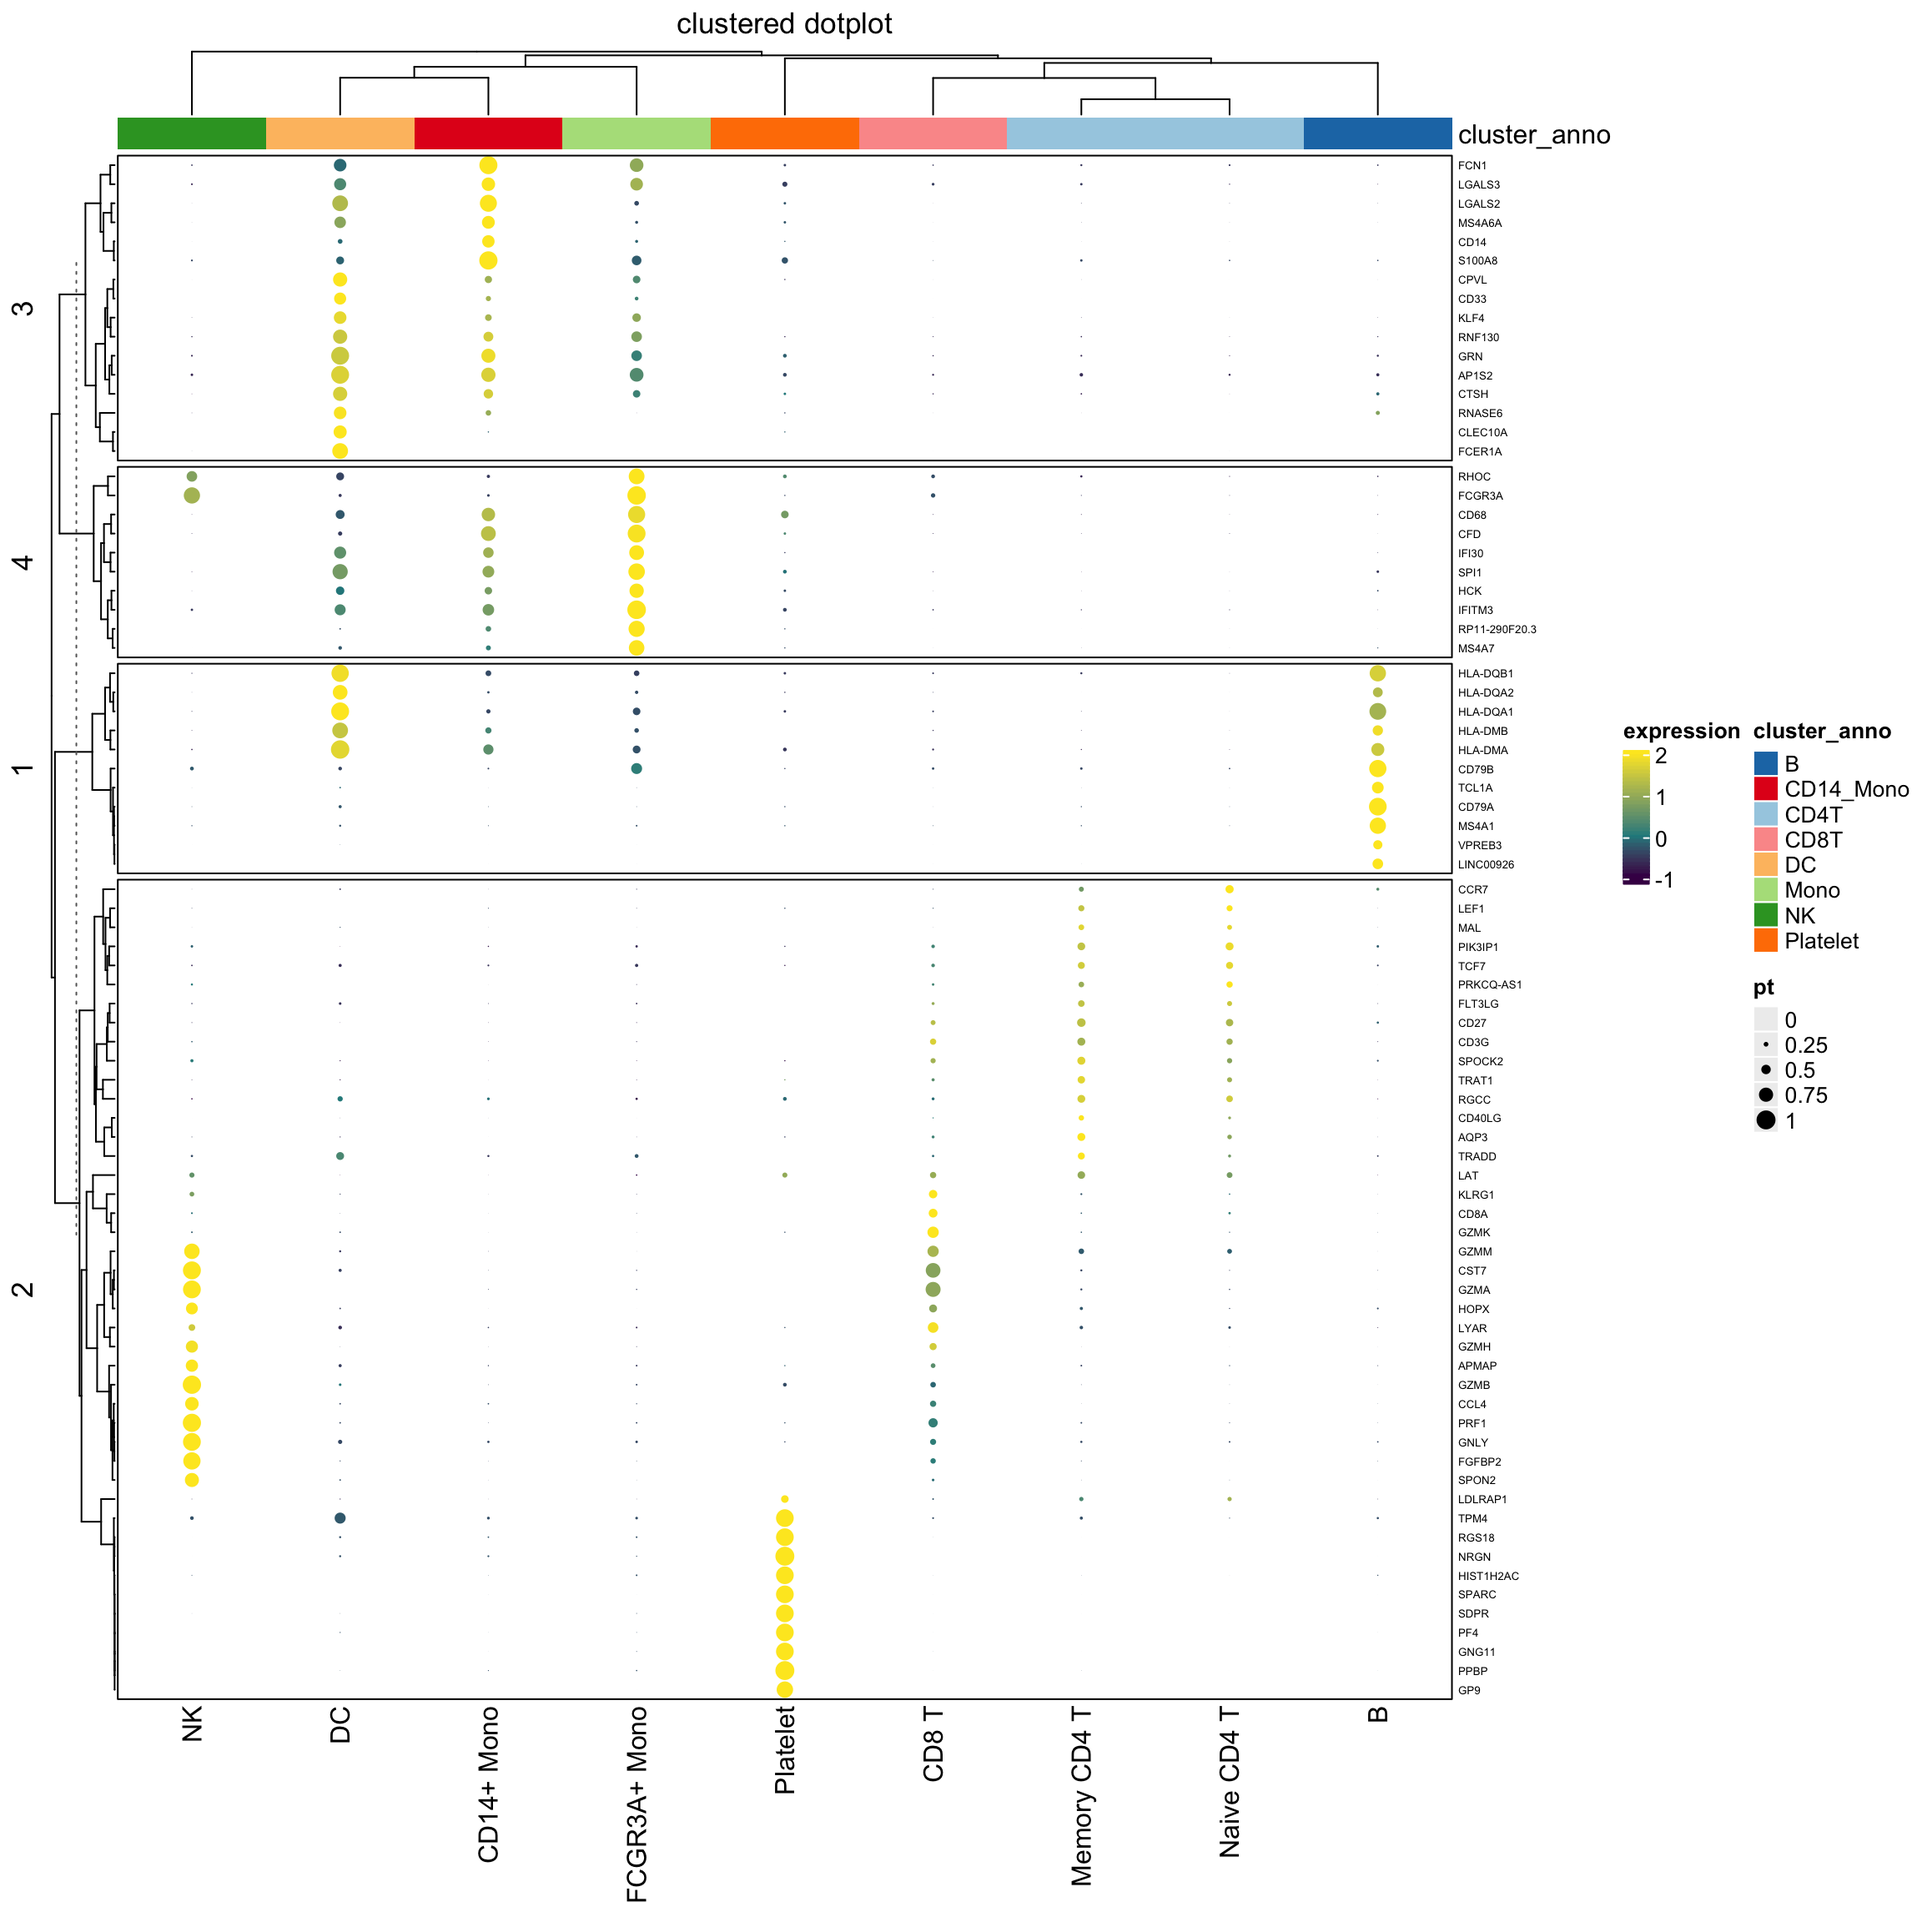
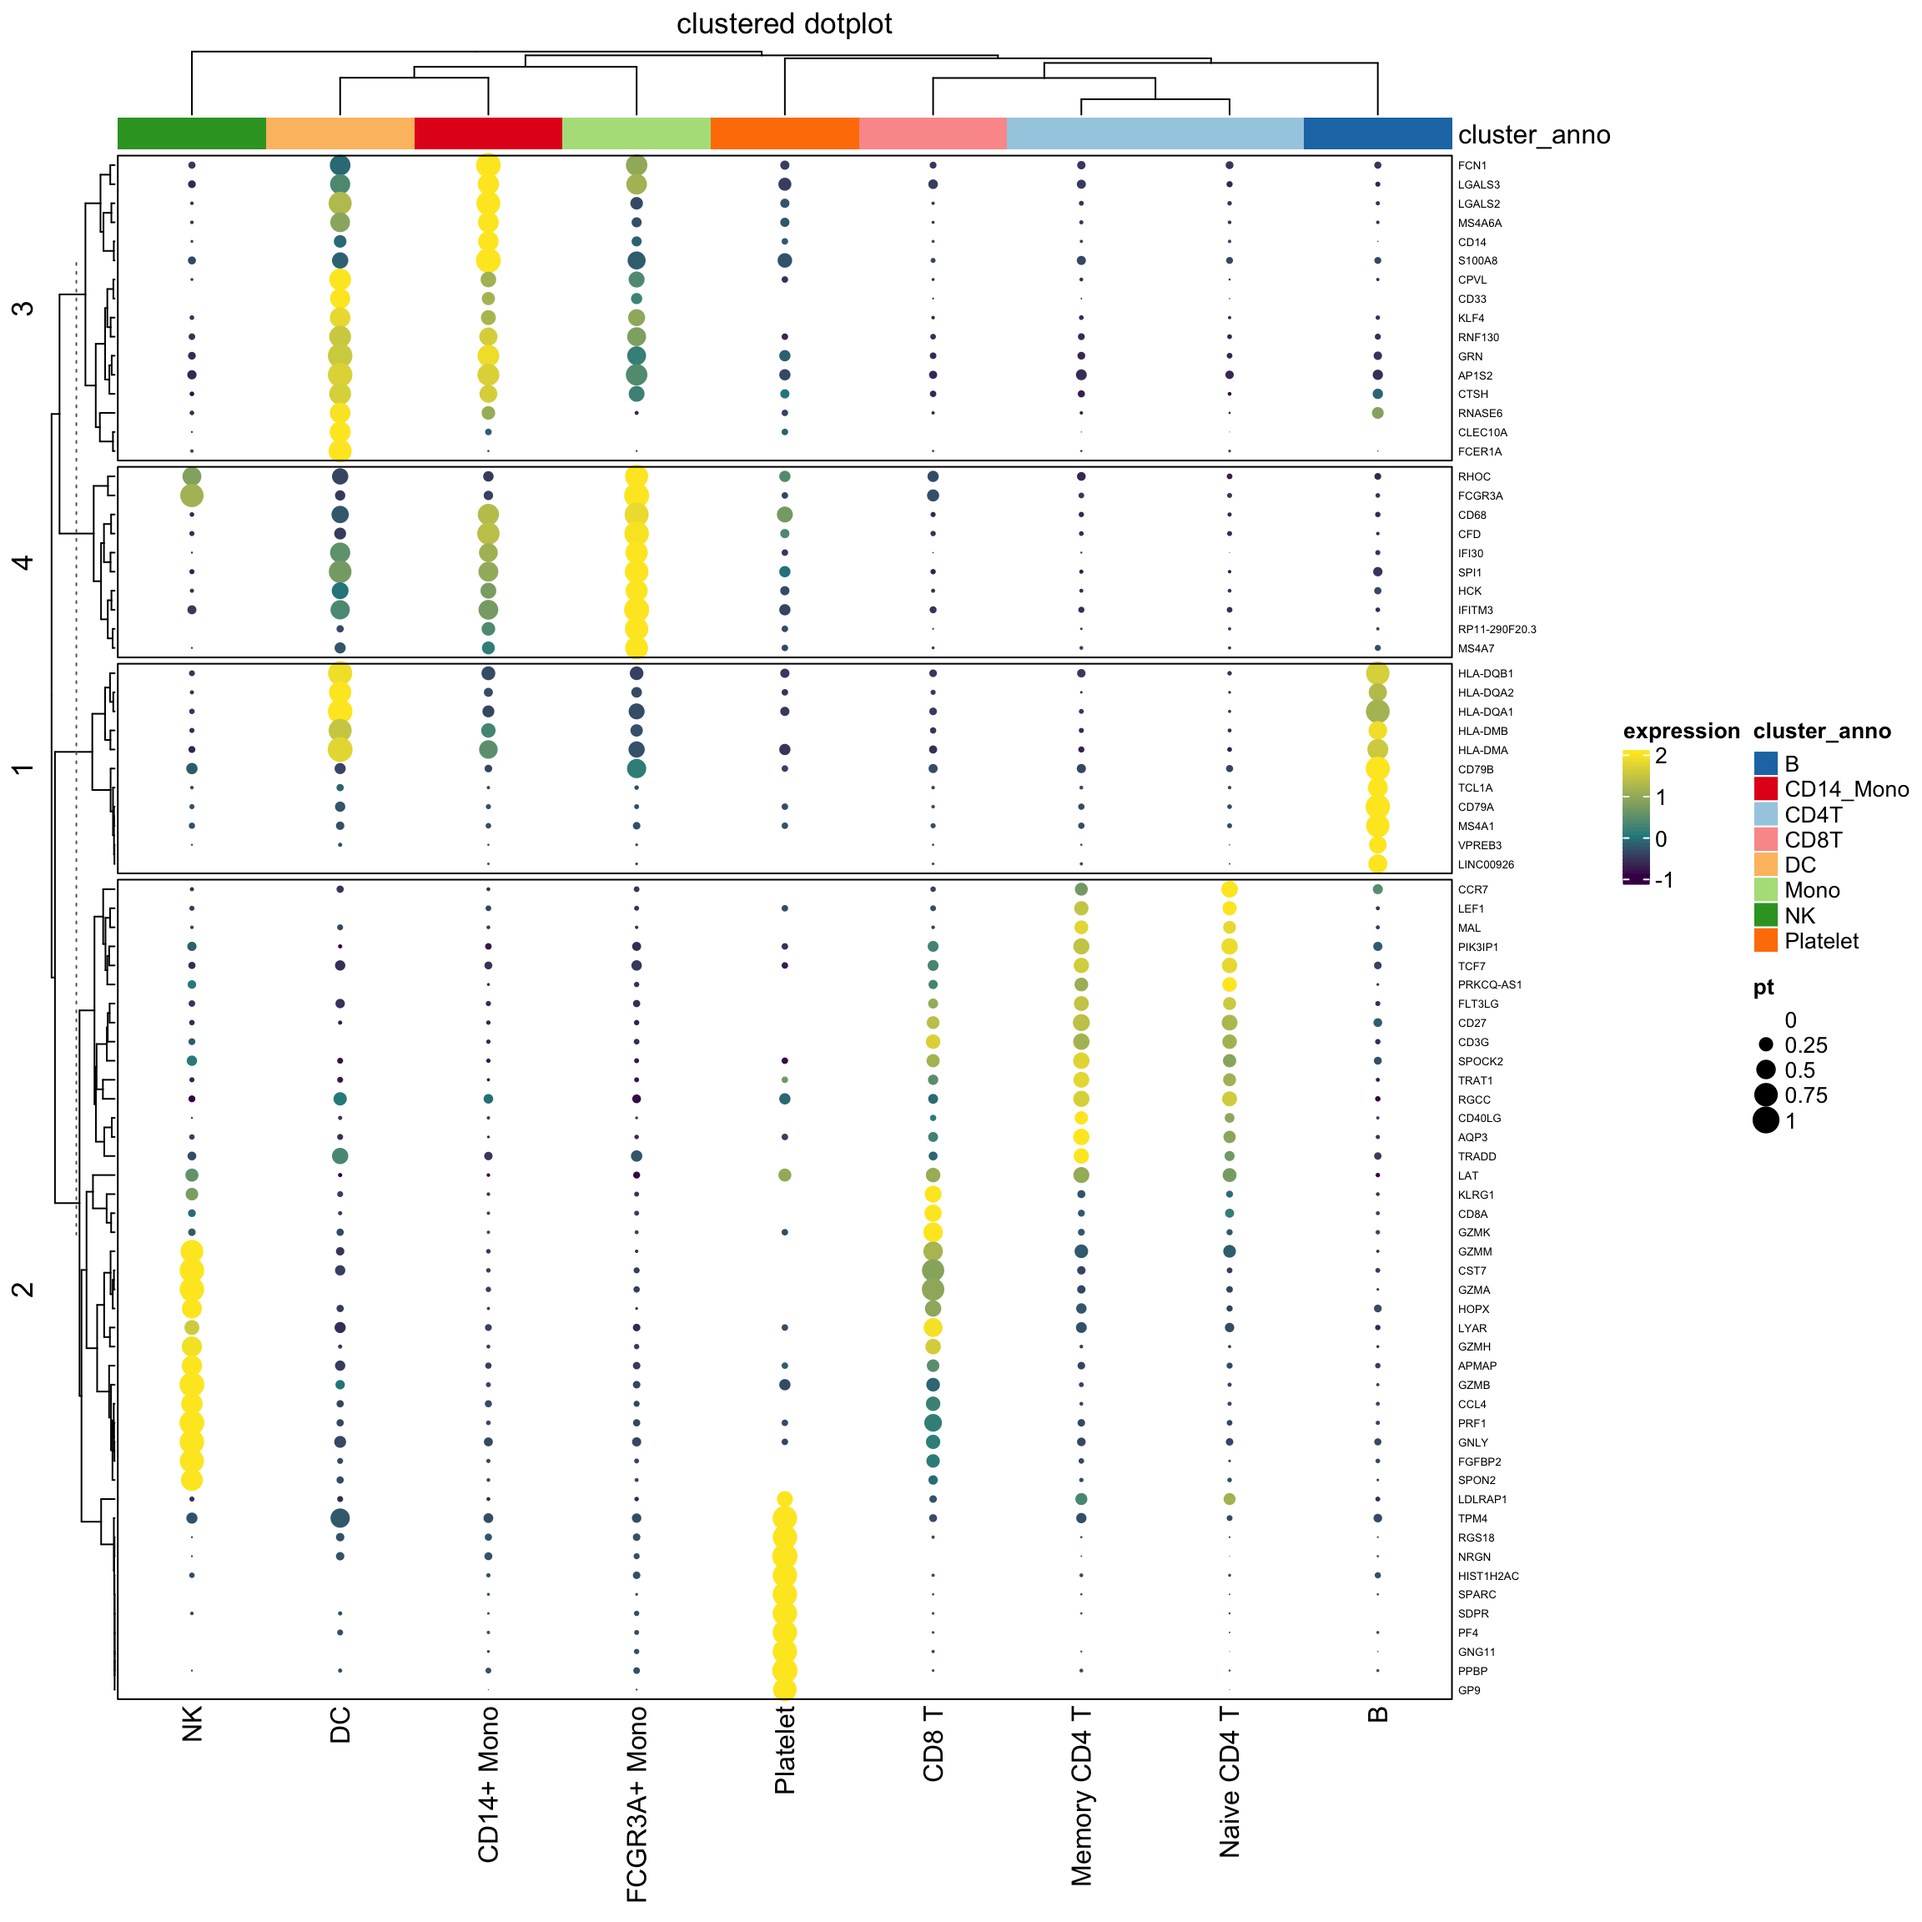
update post

diff --git a/public/post/clustered-dotplot-for-single-cell-rnaseq/index.html b/public/post/clustered-dotplot-for-single-cell-rnaseq/index.html
@@ -303,7 +303,7 @@ Seurat has a nice function for that. However, it can not do the clustering for t
   
   <span class="middot-divider"></span>
   <span class="article-reading-time">
-    8 min read
+    9 min read
   </span>
   
 
@@ -378,10 +378,7 @@ Seurat has a nice function for that. However, it can not do the clustering for t
 
 
     <div class="article-style" itemprop="articleBody">
-      <script src="/rmarkdown-libs/header-attrs/header-attrs.js"></script>
-
-
-<p>Dotplot is a nice way to visualize scRNAseq expression data across clusters. It gives information (by color) for the average expression level across cells within the cluster and the percentage (by size of the dot) of the cells express that gene within the cluster.</p>
+      <p>Dotplot is a nice way to visualize scRNAseq expression data across clusters. It gives information (by color) for the average expression level across cells within the cluster and the percentage (by size of the dot) of the cells express that gene within the cluster.</p>
 <p><code>Seurat</code> has a nice function for that. However, it can not do the clustering for the rows and columns. David McGaughey has written a <a href="http://davemcg.github.io/post/lets-plot-scrna-dotplots/">blog post</a> using ggplot2 and ggtree from Guangchuang Yu. It looks great!</p>
 <p><img src="/img/clustered_dotplot.png" /></p>
 <p>In this post, I am trying to reproduce the same effect using <a href="https://jokergoo.github.io/ComplexHeatmap-reference/book/">ComplexHeatmap</a></p>
@@ -594,7 +591,7 @@ Heatmap(exp_mat,
 <p>Later, he confirmed that the size of points generated by grid.points(size = 10) is different from that from grid.circle(r=5)</p>
 <blockquote>
 <p>For your case, I would suggest to also use grid.points in your layer_fun.
-If you use grid.circle in layer_fun, then you also need to use <a href="http://grid.circle" class="uri">http://grid.circle</a> to construct legend, which is a little bit complicated. You need to set <code>graphics</code> argument in Legend()</p>
+If you use grid.circle in layer_fun, then you also need to use grid.circle to construct legend, which is a little bit complicated. You need to set <code>graphics</code> argument in Legend()</p>
 </blockquote>
 <blockquote>
 <p>See the last example in Section 5.2. <a href="https://jokergoo.github.io/ComplexHeatmap-reference/book/legends.html#discrete-legends" class="uri">https://jokergoo.github.io/ComplexHeatmap-reference/book/legends.html#discrete-legends</a></p>
@@ -641,6 +638,45 @@ hp&lt;- Heatmap(exp_mat,
 
 draw( hp, annotation_legend_list = lgd_list)</code></pre>
 <p><img src="/post/2021-03-10-clustered-dotplot-for-single-cell-rnaseq.en_files/figure-html/unnamed-chunk-11-1.png" width="1152" /></p>
+<p>Note that, we use the percentage as the radius of the circle. The area of the dot is <code>pi *r^2</code>.
+It will appear 4 times different if the original percentage is 0.5 versus 1 (2 times difference) which may not be desirable.
+see <a href="https://stackoverflow.com/questions/64067450/does-size-for-ggplot2geom-point-refer-to-radius-diameter-area-or-somethin" class="uri">https://stackoverflow.com/questions/64067450/does-size-for-ggplot2geom-point-refer-to-radius-diameter-area-or-somethin</a></p>
+<p>We can do a square root of the radius:</p>
+<pre class="r"><code>layer_fun1 = function(j, i, x, y, w, h, fill){
+          grid.rect(x = x, y = y, width = w, height = h, 
+                    gp = gpar(col = NA, fill = NA))
+          grid.circle(x=x,y=y,r= sqrt(pindex(percent_mat, i, j)/100)  * unit(2, &quot;mm&quot;),
+                      gp = gpar(fill = col_fun(pindex(exp_mat, i, j)), col = NA))}
+
+lgd_list1 = list(
+    Legend( labels = c(0,0.25,0.5,0.75,1), title = &quot;pt&quot;,
+            graphics = list(
+              function(x, y, w, h) grid.circle(x = x, y = y, r = 0  * unit(2, &quot;mm&quot;),
+                                               gp = gpar(fill = &quot;black&quot;)),
+              function(x, y, w, h) grid.circle(x = x, y = y, r = sqrt(0.25) * unit(2, &quot;mm&quot;),
+                                               gp = gpar(fill = &quot;black&quot;)),
+              function(x, y, w, h) grid.circle(x = x, y = y, r = sqrt(0.5) * unit(2, &quot;mm&quot;),
+                                               gp = gpar(fill = &quot;black&quot;)),
+              function(x, y, w, h) grid.circle(x = x, y = y, r = sqrt(0.75) * unit(2, &quot;mm&quot;),
+                                               gp = gpar(fill = &quot;black&quot;)),
+              function(x, y, w, h) grid.circle(x = x, y = y, r = 1 * unit(2, &quot;mm&quot;),
+                                               gp = gpar(fill = &quot;black&quot;)))
+            ))
+
+set.seed(123)    
+hp1&lt;- Heatmap(exp_mat,
+        heatmap_legend_param=list(title=&quot;expression&quot;),
+        column_title = &quot;clustered dotplot&quot;, 
+        col=col_fun,
+        rect_gp = gpar(type = &quot;none&quot;),
+        layer_fun = layer_fun1,
+        row_names_gp = gpar(fontsize = 5),
+        row_km = 4,
+        border = &quot;black&quot;,
+        top_annotation = column_ha)
+
+draw( hp1, annotation_legend_list = lgd_list1)</code></pre>
+<p><img src="/post/2021-03-10-clustered-dotplot-for-single-cell-rnaseq.en_files/figure-html/unnamed-chunk-12-1.png" width="1152" /></p>
 </div>
 <div id="use-grid.points-in-both-the-heatmap-body-and-the-legend" class="section level3">
 <h3>use grid.points() in both the heatmap body and the legend</h3>
@@ -674,7 +710,11 @@ hp2&lt;- Heatmap(exp_mat,
         top_annotation = column_ha)
 
 draw( hp2, annotation_legend_list = lgd_list2)</code></pre>
-<p><img src="/post/2021-03-10-clustered-dotplot-for-single-cell-rnaseq.en_files/figure-html/unnamed-chunk-12-1.png" width="1152" /></p>
+<p><img src="/post/2021-03-10-clustered-dotplot-for-single-cell-rnaseq.en_files/figure-html/unnamed-chunk-13-1.png" width="1152" /></p>
+</div>
+<div id="conclusion" class="section level3">
+<h3>Conclusion</h3>
+<p>I would use <code>grid.circle</code> to draw the dots in the legend and the heatmap body since I can fine-tune the looking of the dot size. I am not entirely sure how the size argument determines the size of the dots in <code>grid.points(size)</code>.</p>
 <p>Again, thanks <a href="https://twitter.com/jokergoo_gu">Zuguang Gu</a> for this awesome package!!</p>
 </div>
 

diff --git a/content/post/2021-03-10-clustered-dotplot-for-single-cell-rnaseq.en.html b/content/post/2021-03-10-clustered-dotplot-for-single-cell-rnaseq.en.html
@@ -15,7 +15,6 @@ editor_options:
   chunk_output_type: console
 ---
 
-<script src="/rmarkdown-libs/header-attrs/header-attrs.js"></script>
 
 
 <p>Dotplot is a nice way to visualize scRNAseq expression data across clusters. It gives information (by color) for the average expression level across cells within the cluster and the percentage (by size of the dot) of the cells express that gene within the cluster.</p>
@@ -231,7 +230,7 @@ Heatmap(exp_mat,
 <p>Later, he confirmed that the size of points generated by grid.points(size = 10) is different from that from grid.circle(r=5)</p>
 <blockquote>
 <p>For your case, I would suggest to also use grid.points in your layer_fun.
-If you use grid.circle in layer_fun, then you also need to use <a href="http://grid.circle" class="uri">http://grid.circle</a> to construct legend, which is a little bit complicated. You need to set <code>graphics</code> argument in Legend()</p>
+If you use grid.circle in layer_fun, then you also need to use grid.circle to construct legend, which is a little bit complicated. You need to set <code>graphics</code> argument in Legend()</p>
 </blockquote>
 <blockquote>
 <p>See the last example in Section 5.2. <a href="https://jokergoo.github.io/ComplexHeatmap-reference/book/legends.html#discrete-legends" class="uri">https://jokergoo.github.io/ComplexHeatmap-reference/book/legends.html#discrete-legends</a></p>
@@ -278,6 +277,45 @@ hp&lt;- Heatmap(exp_mat,
 
 draw( hp, annotation_legend_list = lgd_list)</code></pre>
 <p><img src="/post/2021-03-10-clustered-dotplot-for-single-cell-rnaseq.en_files/figure-html/unnamed-chunk-11-1.png" width="1152" /></p>
+<p>Note that, we use the percentage as the radius of the circle. The area of the dot is <code>pi *r^2</code>.
+It will appear 4 times different if the original percentage is 0.5 versus 1 (2 times difference) which may not be desirable.
+see <a href="https://stackoverflow.com/questions/64067450/does-size-for-ggplot2geom-point-refer-to-radius-diameter-area-or-somethin" class="uri">https://stackoverflow.com/questions/64067450/does-size-for-ggplot2geom-point-refer-to-radius-diameter-area-or-somethin</a></p>
+<p>We can do a square root of the radius:</p>
+<pre class="r"><code>layer_fun1 = function(j, i, x, y, w, h, fill){
+          grid.rect(x = x, y = y, width = w, height = h, 
+                    gp = gpar(col = NA, fill = NA))
+          grid.circle(x=x,y=y,r= sqrt(pindex(percent_mat, i, j)/100)  * unit(2, &quot;mm&quot;),
+                      gp = gpar(fill = col_fun(pindex(exp_mat, i, j)), col = NA))}
+
+lgd_list1 = list(
+    Legend( labels = c(0,0.25,0.5,0.75,1), title = &quot;pt&quot;,
+            graphics = list(
+              function(x, y, w, h) grid.circle(x = x, y = y, r = 0  * unit(2, &quot;mm&quot;),
+                                               gp = gpar(fill = &quot;black&quot;)),
+              function(x, y, w, h) grid.circle(x = x, y = y, r = sqrt(0.25) * unit(2, &quot;mm&quot;),
+                                               gp = gpar(fill = &quot;black&quot;)),
+              function(x, y, w, h) grid.circle(x = x, y = y, r = sqrt(0.5) * unit(2, &quot;mm&quot;),
+                                               gp = gpar(fill = &quot;black&quot;)),
+              function(x, y, w, h) grid.circle(x = x, y = y, r = sqrt(0.75) * unit(2, &quot;mm&quot;),
+                                               gp = gpar(fill = &quot;black&quot;)),
+              function(x, y, w, h) grid.circle(x = x, y = y, r = 1 * unit(2, &quot;mm&quot;),
+                                               gp = gpar(fill = &quot;black&quot;)))
+            ))
+
+set.seed(123)    
+hp1&lt;- Heatmap(exp_mat,
+        heatmap_legend_param=list(title=&quot;expression&quot;),
+        column_title = &quot;clustered dotplot&quot;, 
+        col=col_fun,
+        rect_gp = gpar(type = &quot;none&quot;),
+        layer_fun = layer_fun1,
+        row_names_gp = gpar(fontsize = 5),
+        row_km = 4,
+        border = &quot;black&quot;,
+        top_annotation = column_ha)
+
+draw( hp1, annotation_legend_list = lgd_list1)</code></pre>
+<p><img src="/post/2021-03-10-clustered-dotplot-for-single-cell-rnaseq.en_files/figure-html/unnamed-chunk-12-1.png" width="1152" /></p>
 </div>
 <div id="use-grid.points-in-both-the-heatmap-body-and-the-legend" class="section level3">
 <h3>use grid.points() in both the heatmap body and the legend</h3>
@@ -311,6 +349,10 @@ hp2&lt;- Heatmap(exp_mat,
         top_annotation = column_ha)
 
 draw( hp2, annotation_legend_list = lgd_list2)</code></pre>
-<p><img src="/post/2021-03-10-clustered-dotplot-for-single-cell-rnaseq.en_files/figure-html/unnamed-chunk-12-1.png" width="1152" /></p>
+<p><img src="/post/2021-03-10-clustered-dotplot-for-single-cell-rnaseq.en_files/figure-html/unnamed-chunk-13-1.png" width="1152" /></p>
+</div>
+<div id="conclusion" class="section level3">
+<h3>Conclusion</h3>
+<p>I would use <code>grid.circle</code> to draw the dots in the legend and the heatmap body since I can fine-tune the looking of the dot size. I am not entirely sure how the size argument determines the size of the dots in <code>grid.points(size)</code>.</p>
 <p>Again, thanks <a href="https://twitter.com/jokergoo_gu">Zuguang Gu</a> for this awesome package!!</p>
 </div>
